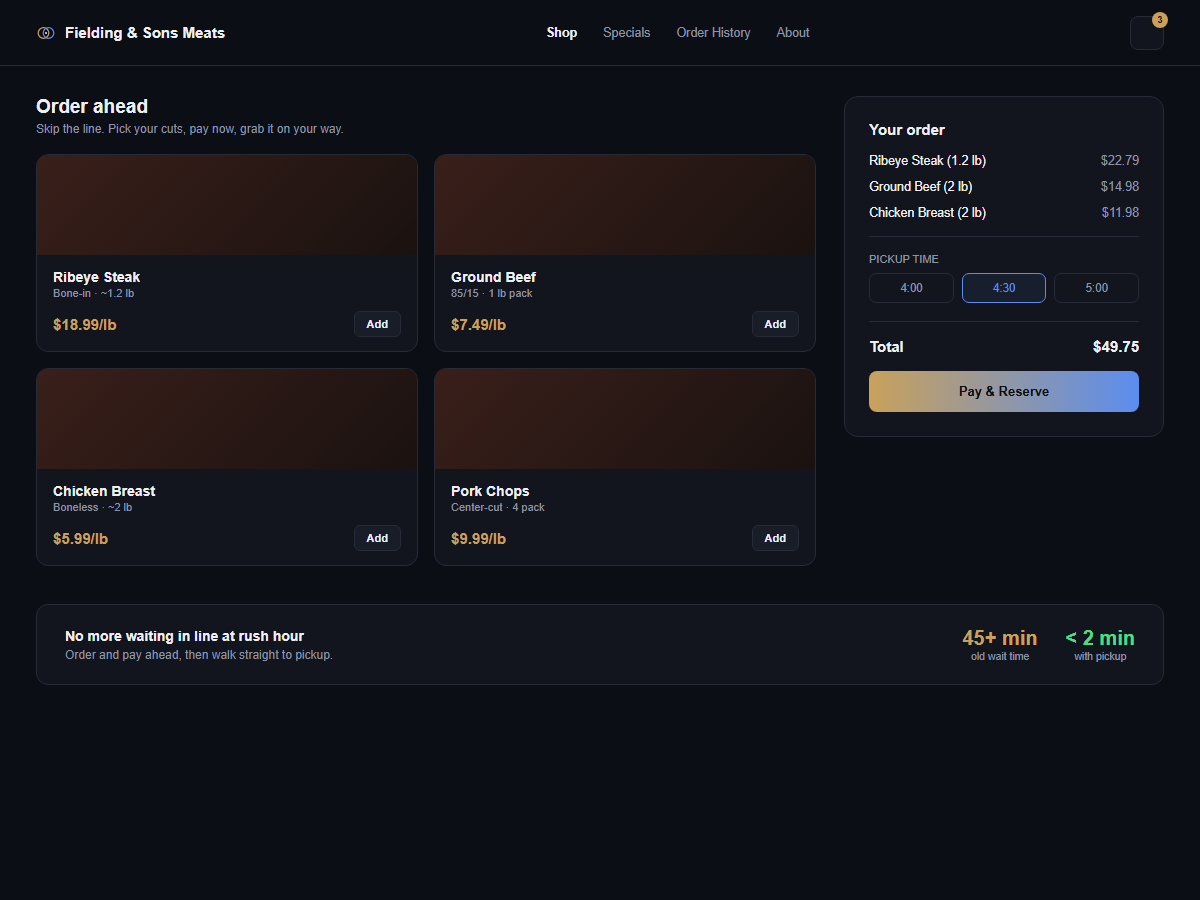
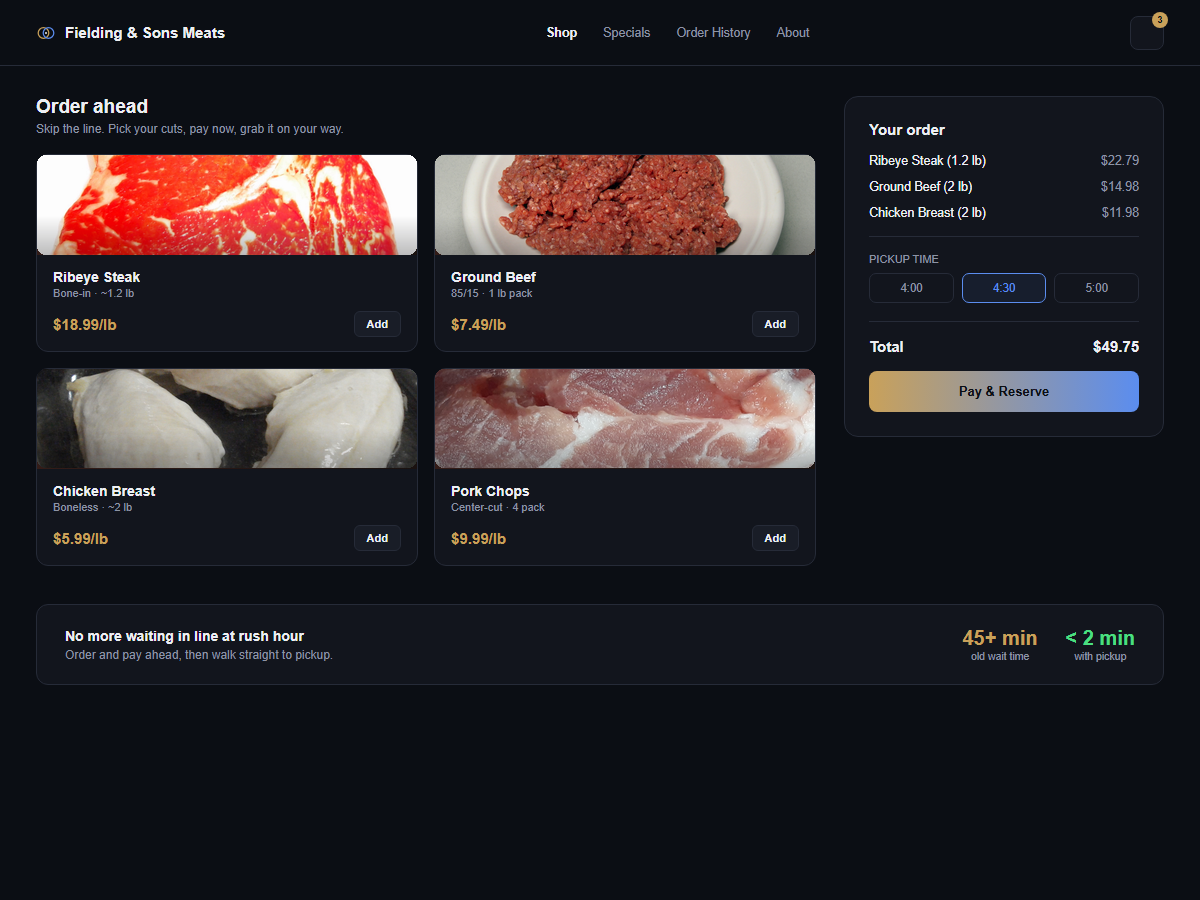
Composite real meat photos into Cut & Go cover, wire up Formspree, drop unused socials
Places real ribeye, ground beef, chicken breast, and pork chop photos into
the corresponding placeholder cards in the Cut & Go mockup screenshot.
Connects the contact form to a live Formspree endpoint instead of the
mailto fallback. Removes the GitHub and Twitter/X social entries and their
now-dead UI since neither account exists to link to.

Claude-Session: https://claude.ai/code/session_017DFTBPG8MS8dbxCXWi9BjT

Changed region(s): [[0.0308, 0.1556, 0.6783, 0.3111], [0.0308, 0.4044, 0.6783, 0.5289]]

diff --git a/src/components/Footer.tsx b/src/components/Footer.tsx
@@ -1,10 +1,9 @@
 import { Link } from 'react-router-dom';
-import { Github, Linkedin, Mail, ArrowUpRight } from 'lucide-react';
+import { Linkedin, Mail, ArrowUpRight } from 'lucide-react';
 import { site } from '@/data/site';
 
 const hasEmail = site.email && !site.email.startsWith('[');
 const hasLinkedin = site.socials.linkedin.url;
-const hasGithub = site.socials.github.url;
 
 export default function Footer() {
   return (
@@ -52,19 +51,6 @@ export default function Footer() {
                     </a>
                   </li>
                 )}
-                {hasGithub && (
-                  <li>
-                    <a
-                      href={site.socials.github.url}
-                      target="_blank"
-                      rel="noreferrer"
-                      className="group flex items-center gap-2 text-sm text-ink transition-colors hover:text-blue"
-                    >
-                      GitHub
-                      <ArrowUpRight size={14} className="opacity-50 group-hover:opacity-100" />
-                    </a>
-                  </li>
-                )}
                 {hasEmail && (
                   <li>
                     <a
@@ -95,17 +81,6 @@ export default function Footer() {
                 className="text-ink-muted transition-colors hover:text-blue"
               >
                 <Linkedin size={18} />
-              </a>
-            )}
-            {hasGithub && (
-              <a
-                href={site.socials.github.url}
-                target="_blank"
-                rel="noreferrer"
-                aria-label="GitHub"
-                className="text-ink-muted transition-colors hover:text-blue"
-              >
-                <Github size={18} />
               </a>
             )}
             {hasEmail && (

diff --git a/src/pages/Contact.tsx b/src/pages/Contact.tsx
@@ -1,6 +1,6 @@
 import { useState } from 'react';
 import type { FormEvent } from 'react';
-import { Mail, MapPin, Send, CheckCircle2, AlertCircle, Github, Linkedin, Twitter, ArrowUpRight } from 'lucide-react';
+import { Mail, MapPin, Send, CheckCircle2, AlertCircle, Linkedin, ArrowUpRight } from 'lucide-react';
 import { site } from '@/data/site';
 import SectionTag from '@/components/SectionTag';
 import { usePageMeta } from '@/hooks/usePageMeta';
@@ -56,8 +56,6 @@ export default function Contact() {
 
   const socials = [
     { icon: Linkedin, label: 'LinkedIn', handle: site.socials.linkedin.handle, href: site.socials.linkedin.url },
-    { icon: Github, label: 'GitHub', handle: site.socials.github.handle, href: site.socials.github.url },
-    { icon: Twitter, label: 'X / Twitter', handle: site.socials.twitter.handle, href: site.socials.twitter.url },
     { icon: Mail, label: 'Email', handle: site.email, href: site.email.startsWith('[') ? '' : `mailto:${site.email}` },
   ].filter((s) => s.href);
 

diff --git a/src/data/site.ts b/src/data/site.ts
@@ -19,9 +19,7 @@ export const site = {
   photoUrl: '/photo.jpg',
 
   socials: {
-    github: { label: 'GitHub', handle: '[Add your GitHub username]', url: '' },
     linkedin: { label: 'LinkedIn', handle: 'hamza-syed', url: 'https://www.linkedin.com/in/hamza-syed' },
-    twitter: { label: 'X / Twitter', handle: '', url: '' },
   },
 
   about: {
@@ -118,6 +116,6 @@ export const site = {
     headline: "Let's connect.",
     body: "I'm always up for talking about recruiting tech, small business tools, or software/UX in general, whether that's a project, an opportunity, or just a good conversation. Reach out and I'll get back to you soon.",
     confirmation: "Message sent. I'll get back to you soon.",
-    formspreeId: '', // e.g. "abcdwxyz" from https://formspree.io, see README
+    formspreeId: 'xoeqglqq',
   },
 } as const;
